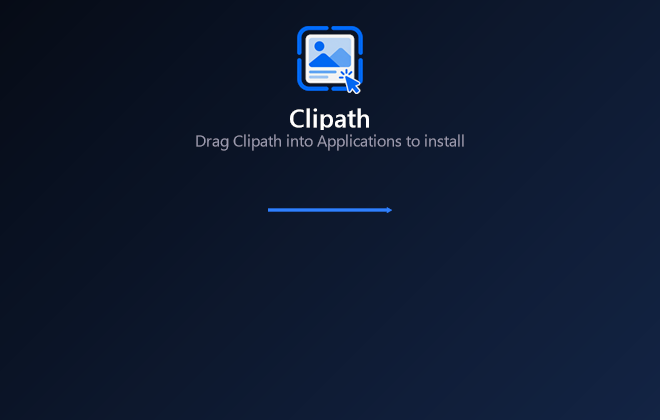
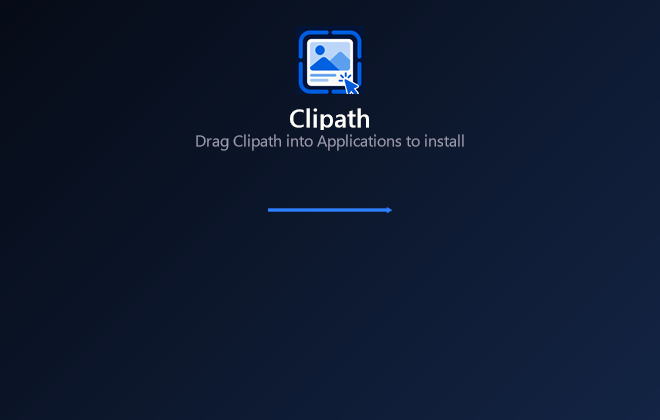
Stop onboarding writing a default it kept its own copy of
A fresh install still ended up on Ctrl+Shift+A. The migration was fine and the
compiled default was fine — onboarding held its own copy of the shortcut,
`useState("Ctrl+Shift+A")`, and whatever it is holding is what it saves when it
finishes. The binding had moved twice since that line was written, so every
first run quietly overwrote the real default with a stale one. Confirmed by
searching the built binary: the current defaults were not in it at all, only
the ones the migration table names.

It now seeds from the settings it already has in hand, so there is one place a
default lives. The accent had drifted the same way in the other direction —
onboarding offered blue while the default was indigo — so the default is blue,
which is what the app was asked to be.

Verified on a genuinely empty profile: onboarding completes and writes
Ctrl+Alt+A.

The macOS DMG was still enlarging the small application icon while the Windows
installer had moved to the dedicated portrait art, so the two installers
disagreed with each other. Both use the same source now, and the tile PNG left
behind by the previous icon scheme is deleted.

Version 1.0.3.

Claude-Session: https://claude.ai/code/session_01H3ZV1G6AfTRjyPZPG71wvo

Changed region(s): [[0.4242, 0.0619, 0.5758, 0.2476]]

diff --git a/docs/index.html b/docs/index.html
@@ -67,7 +67,7 @@
       <div class="wrap">
         <span class="pill">
           <span class="dot"></span>
-          <b>v1.0.2</b>
+          <b>v1.0.3</b>
           <span data-th="สำหรับ Windows 10 และ 11">for Windows 10 &amp; 11</span>
         </span>
 
@@ -413,8 +413,8 @@
               <li>
                 <div>
                   <h4 data-th="ดาวน์โหลดตัวติดตั้ง">Download the installer</h4>
-                  <p data-th="โหลดไฟล์ &lt;a href=&quot;https://github.com/qorstack/clipath/releases/latest/download/Clipath-Setup-x64.exe&quot;&gt;&lt;code&gt;Clipath-Setup-x64.exe&lt;/code&gt;&lt;/a&gt; จากรีลีส v1.0.2 ขนาดประมาณ 2.5 MB">
-                    Grab <a href="https://github.com/qorstack/clipath/releases/latest/download/Clipath-Setup-x64.exe"><code>Clipath-Setup-x64.exe</code></a> from the v1.0.2 release — about 2.5 MB.
+                  <p data-th="โหลดไฟล์ &lt;a href=&quot;https://github.com/qorstack/clipath/releases/latest/download/Clipath-Setup-x64.exe&quot;&gt;&lt;code&gt;Clipath-Setup-x64.exe&lt;/code&gt;&lt;/a&gt; จากรีลีส v1.0.3 ขนาดประมาณ 2.5 MB">
+                    Grab <a href="https://github.com/qorstack/clipath/releases/latest/download/Clipath-Setup-x64.exe"><code>Clipath-Setup-x64.exe</code></a> from the v1.0.3 release — about 2.5 MB.
                   </p>
                 </div>
               </li>
@@ -464,8 +464,8 @@
               <span>Windows 10 / 11 · x64</span>
               <span>NSIS</span>
             </div>
-            <a class="btn btn-primary" href="https://github.com/qorstack/clipath/releases/latest/download/Clipath-Setup-x64.exe" data-th="ดาวน์โหลด Clipath 1.0.2">
-              Download Clipath 1.0.2
+            <a class="btn btn-primary" href="https://github.com/qorstack/clipath/releases/latest/download/Clipath-Setup-x64.exe" data-th="ดาวน์โหลด Clipath 1.0.3">
+              Download Clipath 1.0.3
             </a>
             <a
               class="btn"

diff --git a/src/features/onboarding/Onboarding.tsx b/src/features/onboarding/Onboarding.tsx
@@ -1,4 +1,4 @@
-import { useEffect, useState } from "react";
+import { useEffect, useRef, useState } from "react";
 import { open } from "@tauri-apps/plugin-dialog";
 import { ipc } from "../../lib/ipc";
 import { useSettings } from "../../lib/settings";
@@ -13,11 +13,23 @@ export function Onboarding() {
   const [folder, setFolder] = useState("");
   const [folderError, setFolderError] = useState<string | null>(null);
   const [folderValid, setFolderValid] = useState(false);
-  const [shortcut, setShortcut] = useState<string | null>("Ctrl+Shift+A");
+  const [shortcut, setShortcut] = useState<string | null>(null);
   const [launchAtStartup, setLaunchAtStartup] = useState(true);
   const [notifications, setNotifications] = useState(true);
   const [theme, setTheme] = useState<"system" | "light" | "dark">("system");
-  const [accent, setAccent] = useState("#0A84FF");
+  const [accent, setAccent] = useState("");
+
+  // Seeded from the real defaults rather than repeated here. Onboarding writes
+  // whatever it is holding when it finishes, so a copy of the default that
+  // drifts — as "Ctrl+Shift+A" did — silently overwrites the true one on every
+  // fresh install.
+  const seeded = useRef(false);
+  useEffect(() => {
+    if (seeded.current || !settings) return;
+    seeded.current = true;
+    setShortcut(settings.shortcuts.region);
+    setAccent(settings.appearance.accent);
+  }, [settings]);
 
   // Preview the chosen appearance live, before anything is persisted.
   useEffect(() => {
@@ -76,7 +88,7 @@ export function Onboarding() {
     }
   };
 
-  if (!settings) return null;
+  if (!settings || !accent) return null;
 
   const steps = [
     // 0 — Welcome

diff --git a/src-tauri/src/settings.rs b/src-tauri/src/settings.rs
@@ -220,7 +220,9 @@ impl Default for Appearance {
     fn default() -> Self {
         Self {
             theme: "system".into(),
-            accent: "#5E5CE6".into(),
+            // Onboarding used to offer a different accent to this one, and
+            // whichever it was holding won. They agree now, on the blue.
+            accent: "#0A84FF".into(),
         }
     }
 }
